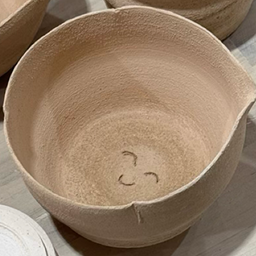
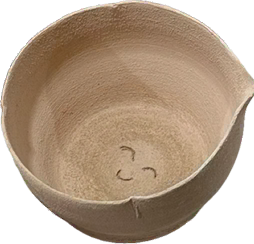
feat: add content for `content/adventure` (#3)
* fix: remove "folder: " prefix

* chore: create sample `japan.md` but not really japan

* fix: update `icon.png` with transparent pottery icon

Pull request: feat: add content for `content/adventure`
# Changelog
- Remove "Folder: " prepend

diff --git a/quartz/plugins/emitters/folderPage.tsx b/quartz/plugins/emitters/folderPage.tsx
@@ -71,7 +71,7 @@ function computeFolderInfo(
       defaultProcessedContent({
         slug: joinSegments(folder, "index") as FullSlug,
         frontmatter: {
-          title: `${i18n(locale).pages.folderContent.folder}: ${folder}`,
+          title: folder,
           tags: [],
         },
       }),

diff --git a/content/adventure/japan.md b/content/adventure/japan.md
@@ -1,0 +1,19 @@
+---
+title: Japan
+---
+
+| <!-- --> | <!-- --> |
+|---|---|
+| ![](../films/000000920002250418.jpg) | ![](../films/000000940004250418.jpg) |
+| ![](../films/000009.JPG) | ![](../films/000012%20(1).JPG) |
+| ![](../films/000012.JPG) | ![](../films/000015.JPG) |
+| ![](../films/000017.JPG) | ![](../films/000023.JPG) |
+| ![](../films/000024.JPG) | ![](../films/000025%20(1).JPG) |
+| ![](../films/000025.JPG) | ![](../films/000026.JPG) |
+| ![](../films/000028.JPG) | ![](../films/000029.JPG) |
+| ![](../films/000032.JPG) | ![](../films/000036%20(1).JPG) |
+| ![](../films/000036.JPG) | ![](../films/000037.JPG) |
+| ![](../films/000039%20(1).JPG) | ![](../films/000039.JPG) |
+| ![](../films/000043.JPG) | ![](../films/000045.JPG) |
+| ![](../films/000066.JPG) | ![](../films/jp_butt_snow_vend.jpg) |
+| ![](../films/jp_twee_banner.JPG) | <!-- --> | 